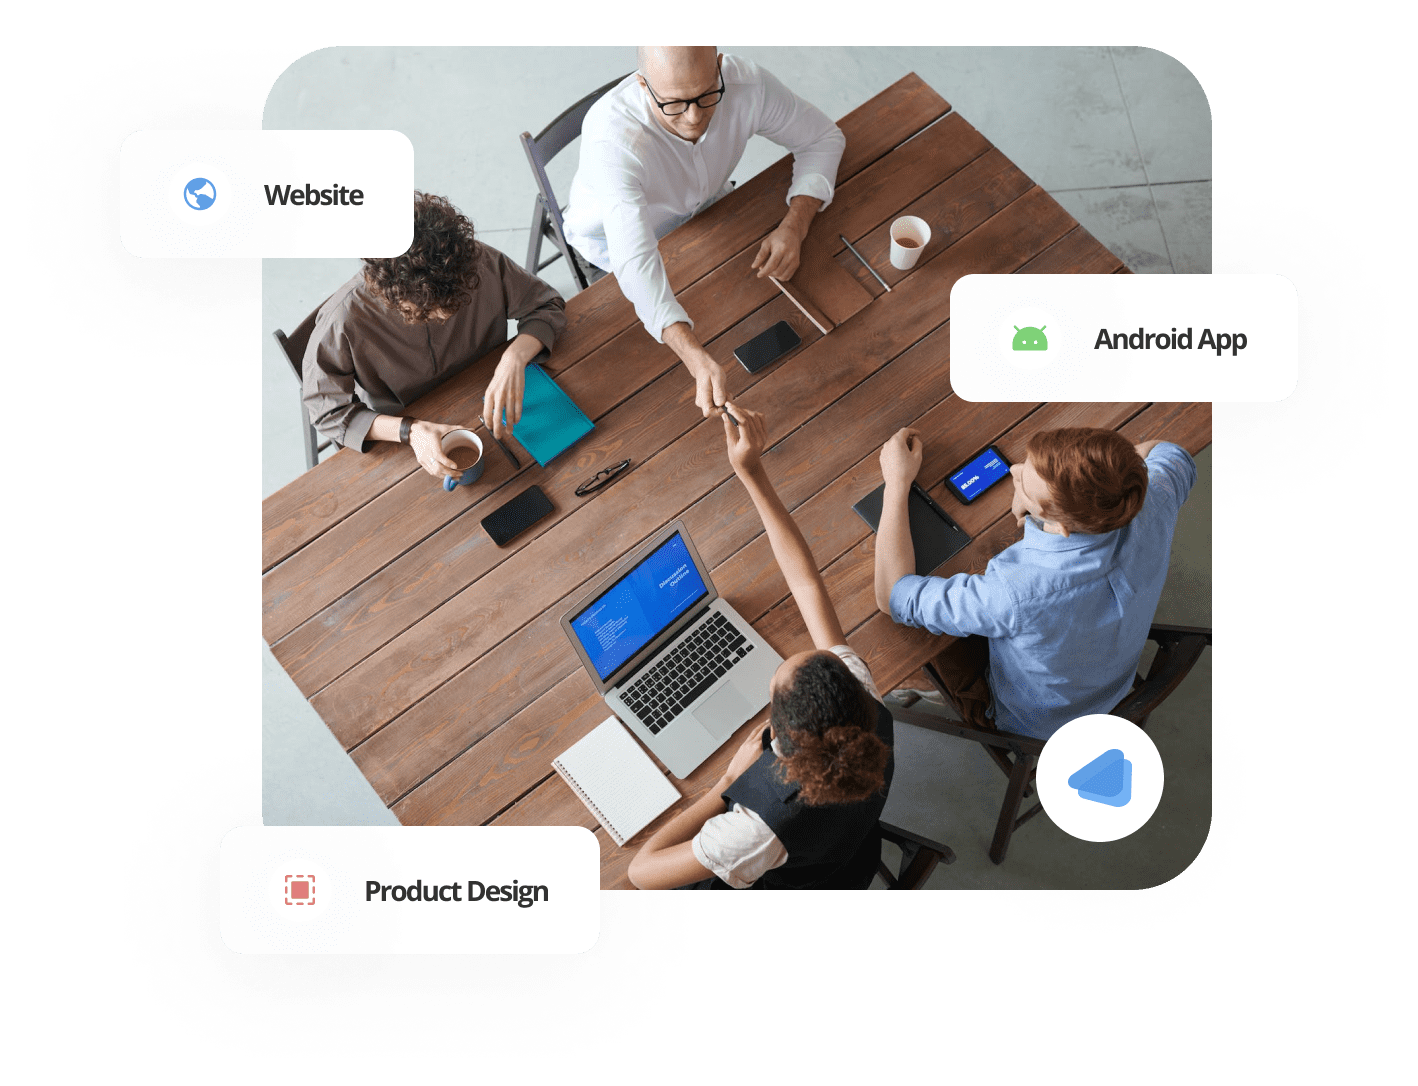
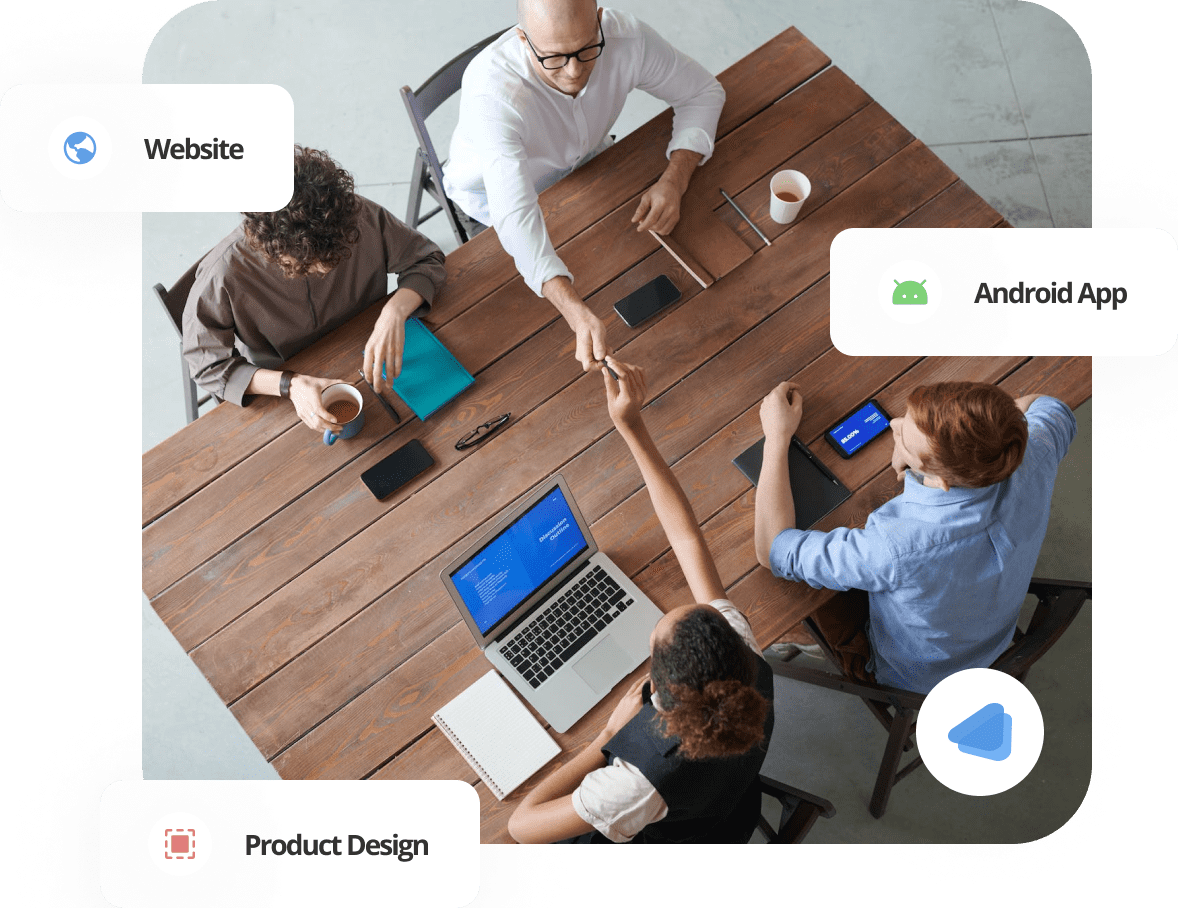
update-assets

diff --git a/src/parts/Hero.jsx b/src/parts/Hero.jsx
@@ -6,7 +6,7 @@ export default function Hero({ data }) {
   return (
     <section id="hero" className="mt-0 mt-md-5">
         <div className="row">
-          <div className="col-lg-7 col-md-12  justify-content-center">
+          <div className="col-lg-6 col-md-12  justify-content-center" id='hero-image'>
             <h1 className='hero-title'>{data.title}</h1>
             <p className='hero-subtitle'>{data.subtitle}</p>
             <div className="card-cta mx-auto">

diff --git a/src/assets/style/style.css b/src/assets/style/style.css
@@ -40,6 +40,15 @@
     padding-bottom: 24px;
 }
 
+.hero-image {
+    display: flex;
+    height: 500px;
+    flex-direction: column;
+    justify-content: center;
+    align-items: center;
+    gap: 10px;
+}
+
 .card-cta {
     display: flex;
     justify-content: start;
